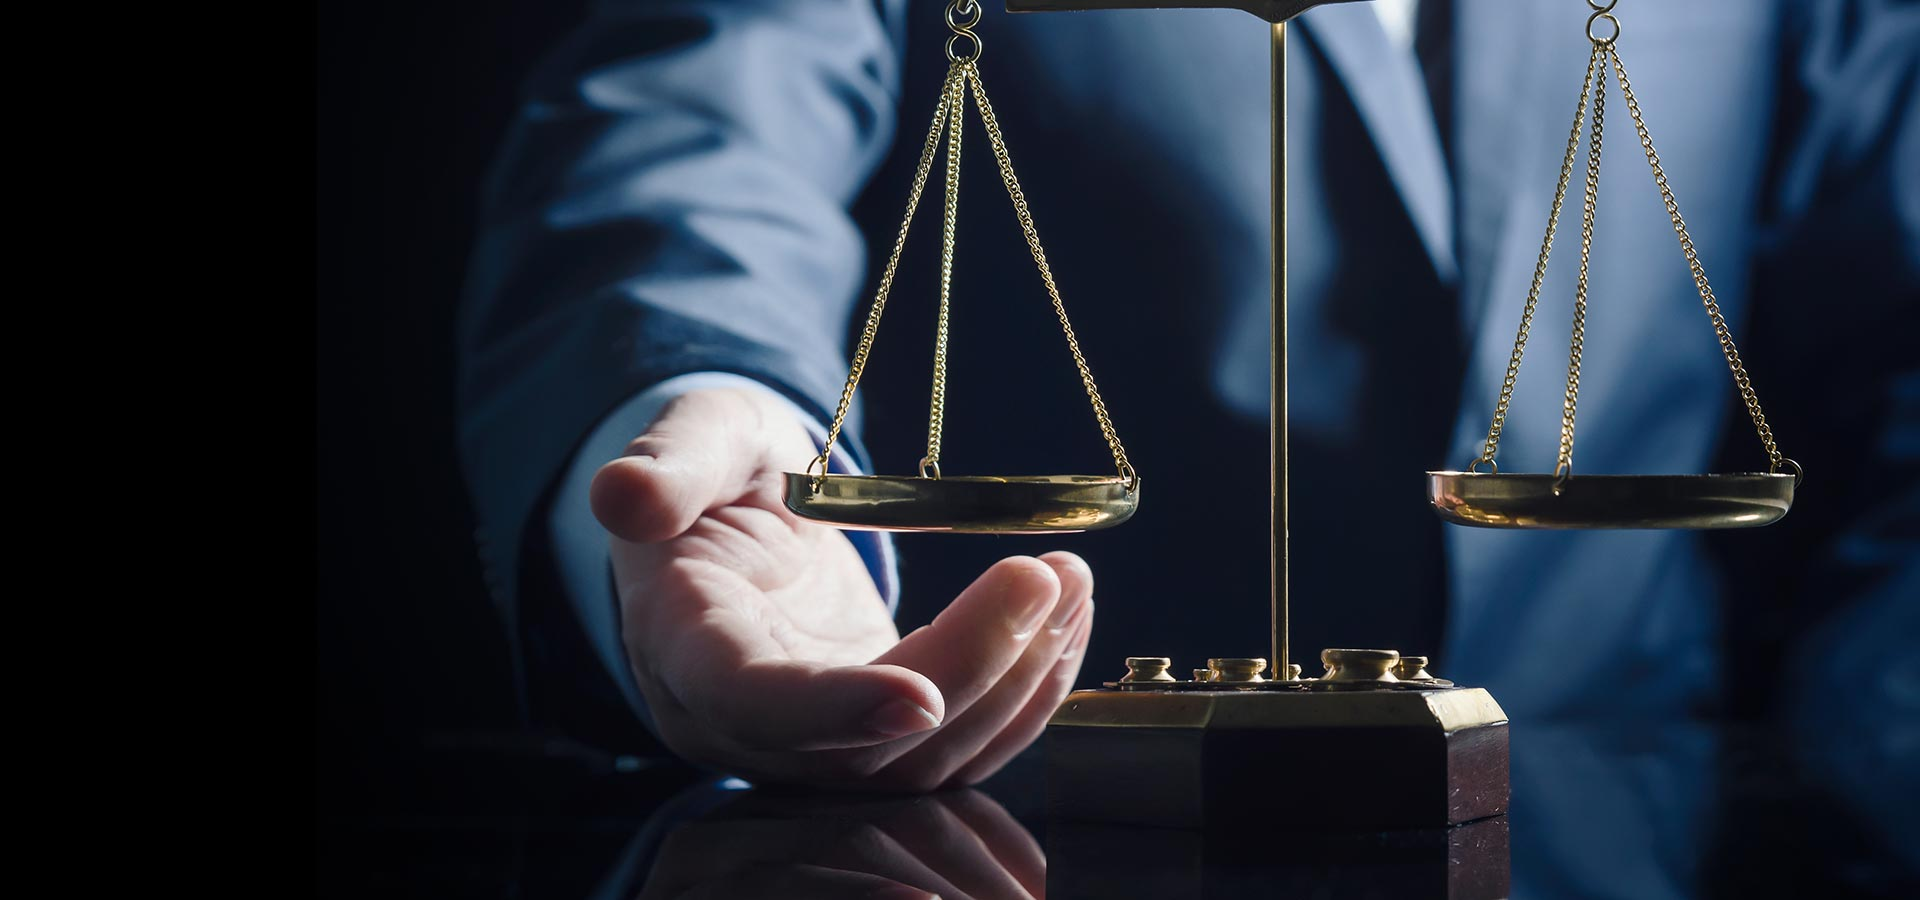
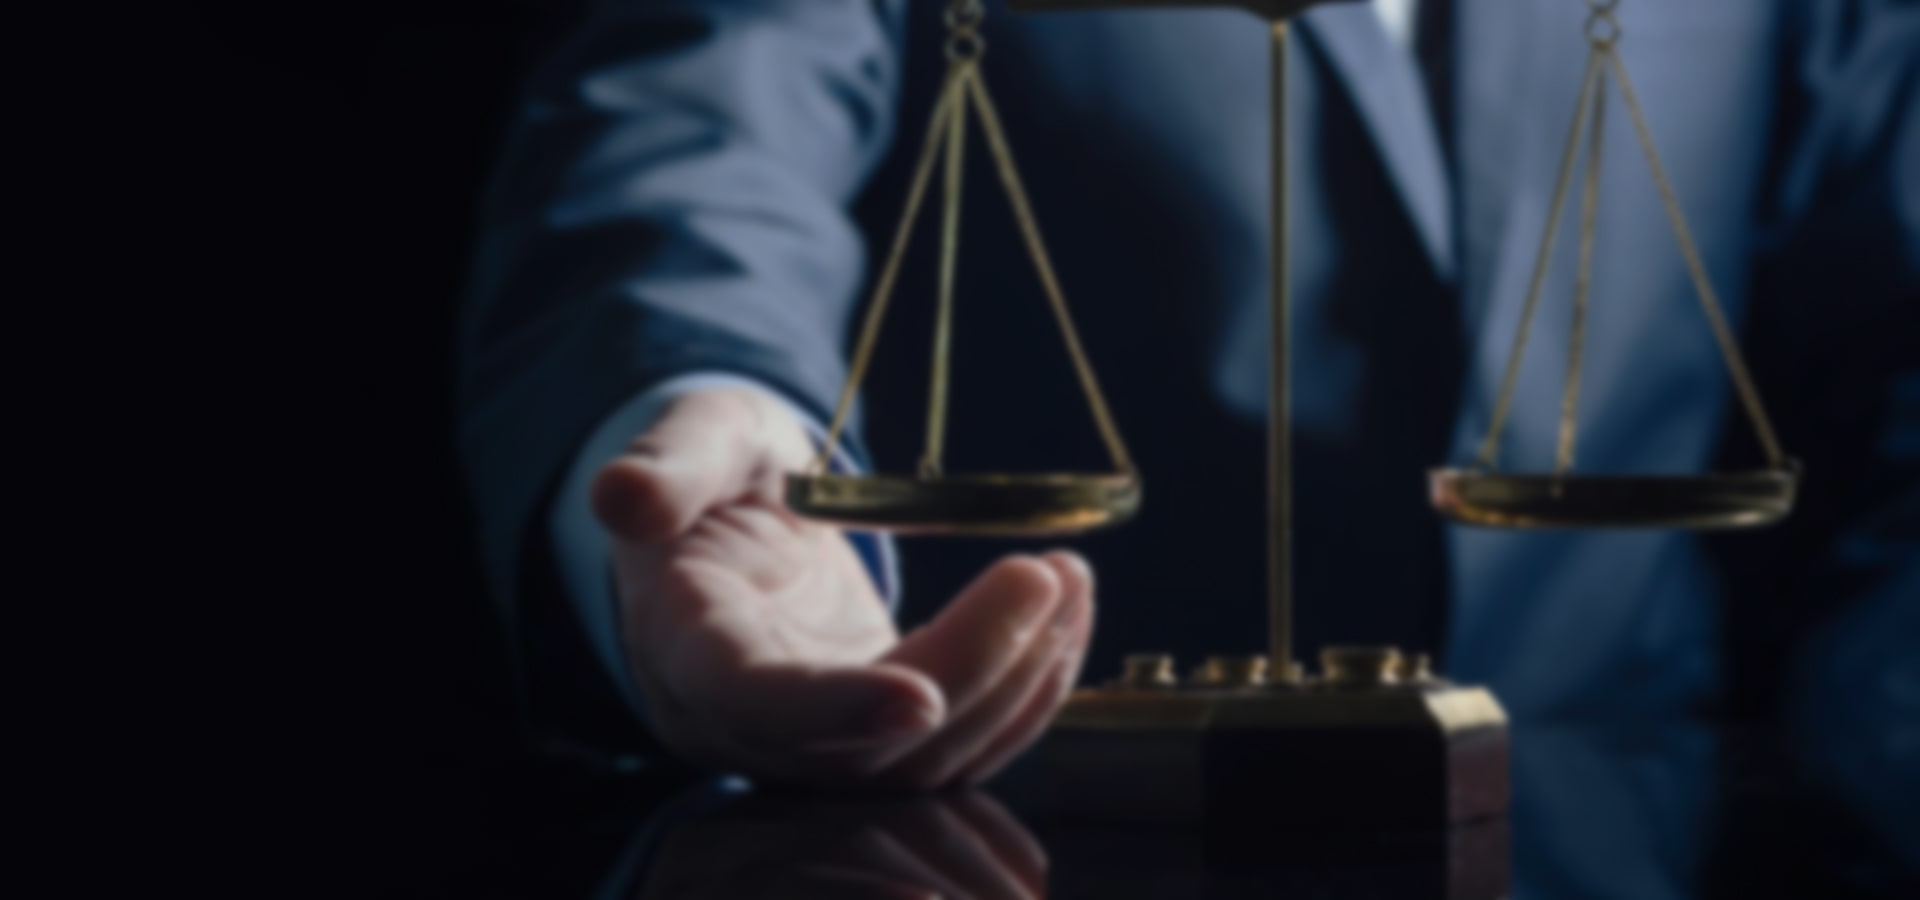
Minor tweaks and home page hero image optimized

diff --git a/src/layouts/HomePage/HomePage.js b/src/layouts/HomePage/HomePage.js
@@ -3,17 +3,9 @@ import HeroContainer from "../../components/HeroContainer/HeroContainer";
 import { HomePageAboutContainer } from "../../components/HomePageAboutContainer/HomePageAboutContainer.styled";
 import { aboutUsTextShortVersion } from "../../data/data";
 import { HomePageAreasOfWorkContainer } from "../../components/HomePageAreasOfWorkContainer/HomePageAreasOfWorkContainer.styled";
-import krivicnoImg from "../../assets/images/krivicno-pravo.png";
-import gradjanskoImg from "../../assets/images/gradjansko-pravo.png";
-import radnoImg from "../../assets/images/radno-pravo.png";
-import upravnoImg from "../../assets/images/upravno-pravo.png";
-import privrednoImg from "../../assets/images/privredno-pravo.png";
-import arborspaletImg from "../../assets/images/arborspalet-logo.png";
-import skalarImg from "../../assets/images/skalar-logo.png";
-import poljoprivredniImg from "../../assets/images/poljoprivredni-logo.png";
-import agrocampusImg from "../../assets/images/agrocampus-logo.png";
-import zovetImg from "../../assets/images/zovet-logo.png";
+import { AOFArray } from "../../data/data";
 import { HomePageClientsContainer } from "../../components/HomePageClientsContainer/HomePageClientsContainer.styled";
+import { clientsImgArray } from "../../data/data";
 import { Link } from "react-router-dom";
 import { LazyLoadImage } from "react-lazy-load-image-component";
 import "react-lazy-load-image-component/src/effects/blur.css";
@@ -21,22 +13,6 @@ import { ReactTyped } from "react-typed";
 import LazyLoad from "react-lazy-load";
 
 const HomePage = () => {
-  const AOFImgArray = [
-    krivicnoImg,
-    gradjanskoImg,
-    radnoImg,
-    upravnoImg,
-    privrednoImg,
-  ];
-
-  const clientsImgArray = [
-    arborspaletImg,
-    skalarImg,
-    poljoprivredniImg,
-    agrocampusImg,
-    zovetImg,
-  ];
-
   return (
     <StyledHomePage>
       <HeroContainer />
@@ -56,13 +32,13 @@ const HomePage = () => {
       <HomePageAreasOfWorkContainer>
         <h3>Oblasti rada</h3>
         <div>
-          {AOFImgArray.map((img, index) => {
+          {AOFArray.map((item, index) => {
             return (
               <div key={index}>
                 <div>
-                  <LazyLoadImage src={img} alt="" threshold={600} />
+                  <LazyLoadImage src={item.img} alt="" threshold={600} />
                 </div>
-                <p>Krivično pravo</p>
+                <p>{item.caption}</p>
               </div>
             );
           })}

diff --git a/src/data/data.js b/src/data/data.js
@@ -1,3 +1,14 @@
+import krivicnoImg from "../assets/images/krivicno-pravo.png";
+import gradjanskoImg from "../assets/images/gradjansko-pravo.png";
+import radnoImg from "../assets/images/radno-pravo.png";
+import upravnoImg from "../assets/images/upravno-pravo.png";
+import privrednoImg from "../assets/images/privredno-pravo.png";
+import arborspaletImg from "../assets/images/arborspalet-logo.png";
+import skalarImg from "../assets/images/skalar-logo.png";
+import poljoprivredniImg from "../assets/images/poljoprivredni-logo.png";
+import agrocampusImg from "../assets/images/agrocampus-logo.png";
+import zovetImg from "../assets/images/zovet-logo.png";
+
 export const lawsDataArray = [
   {
     id: 1,
@@ -33,3 +44,19 @@ export const lawsDataArray = [
 
 export const aboutUsTextShortVersion =
   "Advokatska kancelarija Kljajić osnovana je 2012. godine. Sa punom pažnjom pristupa svim problemima klijenata, uz posebnu zaštitu njihovih interesa, strogo čuvanje advokatske tajne i poštovanje odnosa advokat-klijent. Cilj advokatske kancelarije je pružanje kvalitetnih advokatskih usluga svim potencijalnim klijentima uz najveću meru poštovanja njihovih ličnosti i uz objektivno sagledavanje svih njihovih pravnih problema, sa nastojanjem da svoje probleme reše na najefikasniji i najbolji mogući način.";
+
+export const AOFArray = [
+  { img: krivicnoImg, caption: "Krivično pravo" },
+  { img: gradjanskoImg, caption: "Građansko pravo" },
+  { img: radnoImg, caption: "Radno pravo" },
+  { img: upravnoImg, caption: "Upravno pravo" },
+  { img: privrednoImg, caption: "Privredno pravo" },
+];
+
+export const clientsImgArray = [
+  arborspaletImg,
+  skalarImg,
+  poljoprivredniImg,
+  agrocampusImg,
+  zovetImg,
+];

diff --git a/src/components/HeroContainer/HeroContainer.styled.js b/src/components/HeroContainer/HeroContainer.styled.js
@@ -1,17 +1,33 @@
 import styled from "styled-components";
-import heroImg from "../../assets/images/home-hero-blurred.jpg";
 
 export const StyledHeroContainer = styled.div`
   display: flex;
   width: 100%;
-  min-height: calc(100vh - 96px + 1px);
-  background: url(${heroImg}), ${({ theme }) => theme.colors.veryLightBlue};
-  background-size: cover;
-  background-position: top;
-  background-attachment: scroll;
+  height: calc(100vh - 96px + 1px);
+  min-height: calc(568px - 96px + 1px);
+  position: relative;
+
+  span {
+    display: flex;
+    flex-grow: 1;
+  }
+
+  span img {
+    width: 100%;
+    height: 100%;
+    object-fit: cover;
+    object-position: top;
+  }
 
   @media screen and (max-width: 1023px) {
-    background-position: top 0 left 43%;
-    min-height: calc(100vh - 82px + 1px);
+    height: calc(100vh - 82px + 1px);
+
+    img {
+      object-position: top 0 left 44%;
+    }
+  }
+
+  @media screen and (max-width: 320px) and (max-height: 567px) {
+    min-height: calc(480px - 96px + 1px);
   }
 `;

diff --git a/src/components/HeroContainer/HeroTextWrapperContainer.styled.js b/src/components/HeroContainer/HeroTextWrapperContainer.styled.js
@@ -1,14 +1,14 @@
 import styled from "styled-components";
 
 const HeroTextWrapperContainer = styled.div`
-  display: flex;
-  flex-direction: column;
-  justify-content: center;
-  align-items: center;
-  flex-grow: 1;
-  padding: 7.5rem 1.75rem;
-  backdrop-filter: brightness(78%);
-  -webkit-backdrop-filter: brightness(78%);
+  display: grid;
+  place-content: center;
+  position: absolute;
+  padding-inline: 3.5rem;
+  right: 0;
+  left: 0;
+  top: 0;
+  bottom: 0;
 
   h1,
   h2 {
@@ -24,11 +24,21 @@ const HeroTextWrapperContainer = styled.div`
     -ms-user-select: none;
   }
 
+  h1 {
+    white-space: nowrap;
+  }
+
   h2 {
     font-weight: 700;
     margin-top: 1.75rem;
     font-size: 8.25rem;
     letter-spacing: 3.5px;
+  }
+
+  @media screen and (max-width: 1213px) {
+    h1 {
+      white-space: normal;
+    }
   }
 
   @media screen and (max-width: 767px) {

diff --git a/src/components/HeroContainer/HeroContainer.js b/src/components/HeroContainer/HeroContainer.js
@@ -1,9 +1,13 @@
 import { StyledHeroContainer } from "./HeroContainer.styled";
 import HeroTextWrapperContainer from "./HeroTextWrapperContainer.styled";
+import heroImg from "../../assets/images/home-hero.jpg";
+import { LazyLoadImage } from "react-lazy-load-image-component";
+import "react-lazy-load-image-component/src/effects/blur.css";
 
 const HeroContainer = () => {
   return (
     <StyledHeroContainer>
+      <LazyLoadImage src={heroImg} alt="" effect="blur" />
       <HeroTextWrapperContainer>
         <h1>ADVOKATSKA KANCELARIJA</h1>
         <h2>KLJAJIĆ</h2>
